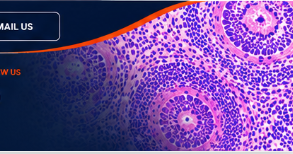
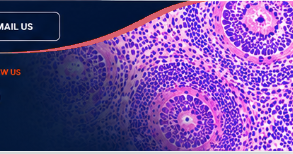
Final website approval for production

Changed region(s): [[0.0922, 0.0, 0.7065, 0.3377], [0.0307, 0.3377, 0.0922, 0.3636]]

diff --git a/src/components/home/ServicesOverview.tsx b/src/components/home/ServicesOverview.tsx
@@ -74,7 +74,7 @@ const processSteps = [
 
 function ServiceItem({ label, icon }: { label: string; icon: BrochureIconName }) {
   return (
-    <li className="flex items-start gap-3 text-[9.8px] font-extrabold leading-[1.3] text-brand-navy">
+    <li className="flex items-start gap-3 text-[9.8px] font-extrabold leading-[1.3] text-brand-navy xl:text-[12px]">
       <span className="relative mt-0.5 grid h-[14px] w-[14px] shrink-0 place-items-center">
         <BrochureIcon name={icon} size={20} className="absolute max-w-none" />
       </span>
@@ -85,7 +85,7 @@ function ServiceItem({ label, icon }: { label: string; icon: BrochureIconName })
 
 function OutsourceItem({ label }: { label: string }) {
   return (
-    <li className="flex items-start gap-2 text-[8.4px] font-extrabold leading-[1.22] text-brand-navy">
+    <li className="flex items-start gap-2 text-[8.4px] font-extrabold leading-[1.22] text-brand-navy xl:text-[10.5px]">
       <span className="mt-px grid h-[12px] w-[12px] shrink-0 place-items-center">
         <BrochureIcon name="check-solid" size={12} />
       </span>
@@ -100,20 +100,20 @@ export default function ServicesOverview() {
       <div className="absolute right-[6%] top-[36px] hidden h-[150px] w-[96px] rounded-l-full border-[22px] border-brand-orange/8 border-r-0 min-[900px]:block" aria-hidden="true" />
       <div className="absolute right-[11%] top-[268px] hidden h-[150px] w-[96px] rounded-l-full border-[22px] border-brand-navy/5 border-r-0 min-[900px]:block" aria-hidden="true" />
 
-      <div className="relative z-10 mx-auto w-full max-w-[995px] px-5 min-[900px]:px-[62px]">
-        <div className="grid gap-x-[38px] gap-y-8 min-[900px]:grid-cols-[280px_minmax(0,1fr)]">
+      <div className="relative z-10 mx-auto w-full max-w-7xl px-5 sm:px-6 lg:px-8">
+        <div className="grid gap-x-[38px] gap-y-8 min-[900px]:grid-cols-[280px_minmax(0,1fr)] xl:grid-cols-[350px_minmax(0,1fr)] xl:gap-x-16">
           <aside>
             <div className="grid h-[38px] w-[38px] place-items-center rounded-full bg-brand-navy text-white shadow-sm">
               <BrochureIcon name="brochure-microscope" size={38} />
             </div>
             <p className="eyebrow mt-4 text-[11px] tracking-[0.12em]">Our Services</p>
-            <h2 className="mt-2 max-w-[270px] text-[22px] font-black leading-[1.04] text-brand-navy">
+            <h2 className="mt-2 max-w-[270px] text-[22px] font-black leading-[1.04] text-brand-navy xl:max-w-[340px] xl:text-[32px]">
               Flexible Mohs histology solutions tailored to your practice
             </h2>
             <div className="mt-4 h-1 w-[47px] bg-brand-orange" />
 
             <div className="mt-4">
-              <h3 className="text-[11px] font-black uppercase tracking-[0.04em] text-brand-navy">Histology Services</h3>
+              <h3 className="text-[11px] font-black uppercase tracking-[0.04em] text-brand-navy xl:text-[13px]">Histology Services</h3>
               <ul className="mt-3 grid gap-1.5">
                 {histologyServices.map((service) => (
                   <ServiceItem key={service.label} label={service.label} icon={service.icon} />
@@ -122,7 +122,7 @@ export default function ServicesOverview() {
             </div>
 
             <div className="mt-3 border-t border-brand-orange pt-3">
-              <h3 className="text-[11px] font-black uppercase tracking-[0.04em] text-brand-navy">Laboratory Support Services</h3>
+              <h3 className="text-[11px] font-black uppercase tracking-[0.04em] text-brand-navy xl:text-[13px]">Laboratory Support Services</h3>
               <ul className="mt-3 grid gap-1.5">
                 {laboratoryServices.map((service) => (
                   <ServiceItem key={service.label} label={service.label} icon={service.icon} />
@@ -131,7 +131,7 @@ export default function ServicesOverview() {
             </div>
 
             <div className="mt-5 rounded border border-brand-orange bg-white/70 p-3.5 shadow-[0_10px_25px_rgba(11,35,69,0.04)]">
-              <h3 className="text-[15px] font-black uppercase leading-[1.05] text-brand-navy">Why Outsource to Mohs Mobile Pros?</h3>
+              <h3 className="text-[15px] font-black uppercase leading-[1.05] text-brand-navy xl:text-[19px]">Why Outsource to Mohs Mobile Pros?</h3>
               <ul className="mt-4 grid grid-cols-2 gap-x-4 gap-y-2.5">
                 {outsourceReasons.map((reason) => (
                   <OutsourceItem key={reason} label={reason} />
@@ -141,31 +141,31 @@ export default function ServicesOverview() {
           </aside>
 
           <div>
-            <div className="relative h-[470px]">
-              <div className="absolute left-[8px] top-[22px] h-[295px] w-[390px] overflow-hidden rounded border-[7px] border-white bg-white shadow-[0_15px_40px_rgba(11,35,69,0.12)]">
+            <div className="relative h-[470px] xl:h-[560px]">
+              <div className="absolute left-[8px] top-[22px] h-[295px] w-[390px] overflow-hidden rounded border-[7px] border-white bg-white shadow-[0_15px_40px_rgba(11,35,69,0.12)] xl:h-[360px] xl:w-[480px]">
                 <Image src="/images/hero/leica-cm1860-technician.jpg" alt="Asian female technician working at a Leica cryostat" fill sizes="390px" className="object-cover object-[44%_50%]" />
               </div>
-              <div className="absolute right-[8px] top-[170px] h-[145px] w-[218px] rotate-[2deg] overflow-hidden rounded border-[7px] border-white bg-white shadow-[0_13px_32px_rgba(11,35,69,0.13)]">
+              <div className="absolute right-[8px] top-[170px] h-[145px] w-[218px] rotate-[2deg] overflow-hidden rounded border-[7px] border-white bg-white shadow-[0_13px_32px_rgba(11,35,69,0.13)] xl:top-[205px] xl:h-[180px] xl:w-[270px]">
                 <Image src="/images/services-slide-handling.png" alt="Gloved hand handling a histology slide" fill sizes="218px" className="object-cover object-[62%_50%]" />
               </div>
-              <div className="absolute left-[98px] top-[296px] h-[167px] w-[255px] -rotate-[1deg] overflow-hidden rounded border-[7px] border-white bg-white shadow-[0_13px_32px_rgba(11,35,69,0.12)]">
+              <div className="absolute left-[98px] top-[296px] h-[167px] w-[255px] -rotate-[1deg] overflow-hidden rounded border-[7px] border-white bg-white shadow-[0_13px_32px_rgba(11,35,69,0.12)] xl:left-[120px] xl:top-[355px] xl:h-[195px] xl:w-[315px]">
                 <Image src="/images/services-he-stain.png" alt="H&E stained tissue image" fill sizes="255px" className="object-cover object-center" />
               </div>
             </div>
 
             <div className="mt-1">
               <p className="eyebrow text-[11px] tracking-[0.08em]">Why Practices Choose Mohs Mobile Pros</p>
-              <h2 className="mt-2 max-w-[560px] text-[22px] font-black leading-[1.04] text-brand-navy sm:text-[26px]">
+              <h2 className="mt-2 max-w-[560px] text-[22px] font-black leading-[1.04] text-brand-navy sm:text-[26px] xl:max-w-3xl xl:text-[32px]">
                 Dependable support for modern Mohs practices
               </h2>
               <div className="mt-6 grid items-stretch gap-4 sm:grid-cols-2 min-[900px]:grid-cols-4">
                 {choiceCards.map((card) => (
-                  <article key={card.title} className="h-full rounded border border-slate-100 bg-white p-4 shadow-[0_14px_32px_rgba(11,35,69,0.06)]">
+                  <article key={card.title} className="h-full rounded border border-slate-100 bg-white p-4 shadow-[0_14px_32px_rgba(11,35,69,0.06)] xl:p-5">
                     <span className="relative grid h-[36px] w-[36px] place-items-center">
                       <BrochureIcon name={card.icon} size="md" className="absolute max-w-none" />
                     </span>
-                    <h3 className="mt-4 text-[11px] font-black leading-tight text-brand-navy">{card.title}</h3>
-                    <p className="mt-3 text-[7.8px] font-medium leading-[1.35] text-brand-navy/80">{card.text}</p>
+                    <h3 className="mt-4 text-[11px] font-black leading-tight text-brand-navy xl:text-[13px]">{card.title}</h3>
+                    <p className="mt-3 text-[7.8px] font-medium leading-[1.35] text-brand-navy/80 xl:text-[10px] xl:leading-[1.45]">{card.text}</p>
                   </article>
                 ))}
               </div>
@@ -174,19 +174,19 @@ export default function ServicesOverview() {
 
           <div className="min-[900px]:col-span-2">
             <p className="eyebrow mt-1 text-[11px] tracking-[0.08em]">How We Work</p>
-            <h2 className="mt-1 text-[24px] font-black leading-tight text-brand-navy sm:text-[27px]">
+            <h2 className="mt-1 text-[24px] font-black leading-tight text-brand-navy sm:text-[27px] xl:text-[32px]">
               A clear process from request to clinic-day support
             </h2>
             <div className="mt-4 grid gap-6 min-[900px]:grid-cols-4 min-[900px]:gap-[42px]">
               {processSteps.map((step, index) => (
-                <article key={step.title} className="relative min-h-[92px] bg-white px-5 py-4 shadow-[0_11px_24px_rgba(11,35,69,0.05)]">
+                <article key={step.title} className="relative min-h-[92px] bg-white px-5 py-4 shadow-[0_11px_24px_rgba(11,35,69,0.05)] xl:min-h-[118px] xl:px-6 xl:py-5">
                   <span className="absolute -left-2 top-3 grid h-[30px] w-[30px] place-items-center rounded-full bg-brand-navy text-[15px] font-black text-white">{index + 1}</span>
                   {index < processSteps.length - 1 && (
                     <span className="absolute -right-[32px] top-[33px] hidden text-[38px] font-black leading-none text-brand-orange min-[900px]:block" aria-hidden="true">&rarr;</span>
                   )}
                   <div className="pl-5">
-                    <h3 className="text-[12px] font-black leading-tight text-brand-navy">{step.title}</h3>
-                    <p className="mt-2 text-[9px] font-medium leading-[1.7] text-brand-navy/80">{step.text}</p>
+                    <h3 className="text-[12px] font-black leading-tight text-brand-navy xl:text-sm">{step.title}</h3>
+                    <p className="mt-2 text-[9px] font-medium leading-[1.7] text-brand-navy/80 xl:text-[11px]">{step.text}</p>
                   </div>
                 </article>
               ))}

diff --git a/src/components/home/HeroSection.tsx b/src/components/home/HeroSection.tsx
@@ -3,33 +3,33 @@ import Link from 'next/link'
 
 export default function HeroSection() {
   return (
-    <section className="relative isolate h-[363px] overflow-hidden bg-white">
-      <div className="absolute right-0 top-0 hidden h-[338px] w-[56%] min-[900px]:block">
-        <Image src="/images/homepage-hero-eye-contact.png" alt="Red-haired histotechnician receiving a specimen from a dermatology surgeon in a Mohs laboratory" fill priority sizes="56vw" className="object-cover object-center" />
-        <div className="absolute inset-y-0 left-0 w-[34%] bg-gradient-to-r from-white via-white/88 to-white/0" />
+    <section className="relative isolate overflow-hidden bg-white min-[900px]:h-[363px] xl:h-[480px]">
+      <div className="absolute right-0 top-0 hidden h-[338px] w-[56%] min-[900px]:block xl:h-[455px] xl:w-[58%]">
+        <Image src="/images/homepage-hero-eye-contact.png" alt="Red-haired histotechnician receiving a specimen from a dermatology surgeon in a Mohs laboratory" fill priority sizes="(min-width: 1280px) 58vw, 56vw" className="object-cover object-center" />
+        <div className="absolute inset-y-0 left-0 w-[46%] bg-[linear-gradient(90deg,#ffffff_0%,#ffffff_5%,rgba(255,255,255,0.96)_14%,rgba(255,255,255,0.84)_28%,rgba(255,255,255,0.65)_44%,rgba(255,255,255,0.42)_60%,rgba(255,255,255,0.22)_76%,rgba(255,255,255,0.08)_90%,rgba(255,255,255,0)_100%)]" />
       </div>
       <div className="absolute bottom-0 left-0 h-[25px] w-full bg-brand-orange" />
       <svg className="absolute bottom-[16px] left-0 h-[42px] w-full text-brand-navy" viewBox="0 0 1440 100" preserveAspectRatio="none" aria-hidden="true">
         <path fill="currentColor" d="M0 78C242 47 454 42 694 49C930 56 1160 80 1440 36V100H0V78Z" />
       </svg>
 
-      <div className="relative z-10 mx-auto flex h-full w-full max-w-[995px] px-5 pt-[42px] min-[900px]:px-[62px]">
-        <div className="max-w-[448px] premium-reveal">
+      <div className="relative z-10 mx-auto flex w-full max-w-7xl flex-col px-5 pb-[72px] pt-[42px] sm:px-6 min-[900px]:h-full min-[900px]:flex-row min-[900px]:pb-0 lg:px-8 xl:pt-[70px]">
+        <div className="max-w-[448px] premium-reveal xl:max-w-[560px]">
           <p className="eyebrow">Mobile Mohs Histology Services</p>
-          <h1 className="mt-3 max-w-[440px] text-[34px] font-black leading-[1.04] text-brand-navy sm:text-[36px]">
+          <h1 className="mt-3 max-w-[440px] text-[34px] font-black leading-[1.04] text-brand-navy sm:text-[36px] xl:max-w-[560px] xl:text-[52px]">
             Professional Mobile Mohs Histology Services
           </h1>
           <div className="mt-5 h-1 w-[54px] rounded-full bg-brand-orange" />
-          <p className="mt-6 max-w-[410px] text-[13px] font-medium leading-7 text-brand-navy">
+          <p className="mt-6 max-w-[410px] text-[13px] font-medium leading-7 text-brand-navy xl:max-w-[520px] xl:text-[17px] xl:leading-8">
             Experienced on-site Mohs histology support that integrates seamlessly into your laboratory workflow while delivering precise, prompt, and professional service.
           </p>
           <div className="mt-5 flex flex-col gap-4 sm:flex-row">
-            <Link href="/services" prefetch={false} className="btn-secondary min-h-[36px] rounded bg-brand-navy px-6 py-2 text-[11px] text-white hover:border-brand-navy hover:bg-brand-navy hover:text-brand-orange">Our Services</Link>
-            <Link href="/request-service" prefetch={false} className="btn-primary min-h-[36px] rounded px-6 py-2 text-[11px]">Request Service</Link>
+            <Link href="/services" prefetch={false} className="btn-secondary min-h-[36px] rounded bg-brand-navy px-6 py-2 text-[11px] text-white hover:border-brand-navy hover:bg-brand-navy hover:text-brand-orange xl:min-h-12 xl:px-7 xl:text-sm">Our Services</Link>
+            <Link href="/request-service" prefetch={false} className="btn-primary min-h-[36px] rounded px-6 py-2 text-[11px] xl:min-h-12 xl:px-7 xl:text-sm">Request Service</Link>
           </div>
         </div>
 
-        <div className="relative min-h-[320px] min-[900px]:hidden">
+        <div className="relative mt-8 min-h-[240px] w-full sm:min-h-[320px] min-[900px]:hidden">
           <div className="absolute inset-0 overflow-hidden rounded-lg border-8 border-white bg-brand-navy shadow-2xl shadow-slate-900/20">
             <Image src="/images/homepage-hero-eye-contact.png" alt="Red-haired histotechnician receiving a specimen from a dermatology surgeon in a Mohs laboratory" fill sizes="100vw" className="object-cover" />
           </div>

diff --git a/src/components/home/FooterSection.tsx b/src/components/home/FooterSection.tsx
@@ -24,23 +24,23 @@ export default function FooterSection({ home = false }: FooterSectionProps) {
 
   return (
     <div className="relative z-10">
-      <div className={home ? 'mx-auto grid w-full max-w-[995px] gap-6 px-5 pb-5 pt-4 md:grid-cols-[1.25fr_.85fr_1fr_.7fr] md:items-start min-[900px]:px-[62px]' : 'container grid gap-8 pb-7 pt-5 md:grid-cols-[1.2fr_1fr_1.1fr_.7fr] md:items-start'}>
+      <div className={home ? 'mx-auto grid w-full max-w-7xl gap-6 px-5 pb-5 pt-4 sm:px-6 md:grid-cols-[1.25fr_.85fr_1fr_.7fr] md:items-start lg:px-8 xl:gap-10 xl:pb-7 xl:pt-6' : 'container grid gap-8 pb-7 pt-5 md:grid-cols-[1.2fr_1fr_1.1fr_.7fr] md:items-start'}>
         <div>
           <Link href="/" prefetch={false} className="inline-flex items-center gap-3">
             <span className={home ? 'relative h-[38px] w-[38px] shrink-0 overflow-hidden rounded-full bg-white' : 'relative h-14 w-14 shrink-0 overflow-hidden rounded-full bg-white'}>
               <Image src="/images/approved-logo.png" alt="" fill sizes={home ? '38px' : '56px'} className="object-contain" />
             </span>
             <span>
-              <span className={home ? 'block text-[18px] font-extrabold leading-tight text-white' : 'block text-xl font-extrabold leading-tight text-white'}>Mohs Mobile <span className="text-brand-orange">PROS</span></span>
-              <span className={home ? 'mt-1 block max-w-[150px] text-[10px] font-semibold leading-snug text-white/78' : 'mt-1 block max-w-[190px] text-xs font-semibold leading-snug text-white/78'}>Professional On-Site Mohs Histology Services</span>
+              <span className={home ? 'block text-[18px] font-extrabold leading-tight text-white xl:text-[22px]' : 'block text-xl font-extrabold leading-tight text-white'}>Mohs Mobile <span className="text-brand-orange">PROS</span></span>
+              <span className={home ? 'mt-1 block max-w-[150px] text-[10px] font-semibold leading-snug text-white/78 xl:max-w-[190px] xl:text-xs' : 'mt-1 block max-w-[190px] text-xs font-semibold leading-snug text-white/78'}>Professional On-Site Mohs Histology Services</span>
             </span>
           </Link>
-          <p className={home ? 'mt-4 text-[10px] text-white/72' : 'mt-5 text-xs text-white/72'}>&copy; 2026 Mohs Mobile Pros. All rights reserved.</p>
+          <p className={home ? 'mt-4 text-[10px] text-white/72 xl:text-xs' : 'mt-5 text-xs text-white/72'}>&copy; 2026 Mohs Mobile Pros. All rights reserved.</p>
         </div>
 
         <div className={home ? 'md:border-l md:border-white/25 md:pl-6' : 'md:border-l md:border-white/25 md:pl-8'}>
-          <h2 className={home ? 'text-[11px] font-bold uppercase tracking-[0.12em] text-brand-orange' : 'text-xs font-bold uppercase tracking-[0.18em] text-brand-orange'}>Quick Links</h2>
-          <ul className={home ? 'mt-2 grid grid-cols-2 gap-x-5 gap-y-1 text-[10px] font-semibold text-white/82' : 'mt-3 grid grid-cols-2 gap-x-7 gap-y-2 text-xs font-semibold text-white/82'}>
+          <h2 className={home ? 'text-[11px] font-bold uppercase tracking-[0.12em] text-brand-orange xl:text-xs' : 'text-xs font-bold uppercase tracking-[0.18em] text-brand-orange'}>Quick Links</h2>
+          <ul className={home ? 'mt-2 grid grid-cols-2 gap-x-5 gap-y-1 text-[10px] font-semibold text-white/82 xl:text-xs' : 'mt-3 grid grid-cols-2 gap-x-7 gap-y-2 text-xs font-semibold text-white/82'}>
             {quickLinks.map((link) => (
               <li key={link.href}><Link href={link.href} prefetch={false} className={footerLinkClass}>{link.label}</Link></li>
             ))}
@@ -48,8 +48,8 @@ export default function FooterSection({ home = false }: FooterSectionProps) {
         </div>
 
         <div className={home ? 'md:border-l md:border-white/25 md:pl-6' : 'md:border-l md:border-white/25 md:pl-8'}>
-          <h2 className={home ? 'text-[11px] font-bold uppercase tracking-[0.12em] text-brand-orange' : 'text-xs font-bold uppercase tracking-[0.18em] text-brand-orange'}>Contact</h2>
-          <div className={home ? 'mt-2 space-y-1 text-[10px] font-semibold text-white/82' : 'mt-3 space-y-2 text-xs font-semibold text-white/82'}>
+          <h2 className={home ? 'text-[11px] font-bold uppercase tracking-[0.12em] text-brand-orange xl:text-xs' : 'text-xs font-bold uppercase tracking-[0.18em] text-brand-orange'}>Contact</h2>
+          <div className={home ? 'mt-2 space-y-1 text-[10px] font-semibold text-white/82 xl:text-xs' : 'mt-3 space-y-2 text-xs font-semibold text-white/82'}>
             <p><a href={`mailto:${business.email}`} className={footerLinkClass}>{business.email}</a></p>
             <p><a href={`mailto:${business.schedulingEmail}`} className={footerLinkClass}>{business.schedulingEmail}</a></p>
             <p><a href={business.phoneHref} className={footerLinkClass}>{business.phone}</a></p>
@@ -58,7 +58,7 @@ export default function FooterSection({ home = false }: FooterSectionProps) {
         </div>
 
         <div className={home ? 'md:border-l md:border-white/25 md:pl-6' : 'md:border-l md:border-white/25 md:pl-8'}>
-          <h2 className={home ? 'text-[11px] font-bold uppercase tracking-[0.12em] text-brand-orange' : 'text-xs font-bold uppercase tracking-[0.18em] text-brand-orange'}>Follow Us</h2>
+          <h2 className={home ? 'text-[11px] font-bold uppercase tracking-[0.12em] text-brand-orange xl:text-xs' : 'text-xs font-bold uppercase tracking-[0.18em] text-brand-orange'}>Follow Us</h2>
           <span aria-hidden="true" className={home ? 'mt-3 inline-flex h-8 w-8 items-center justify-center rounded-full bg-white/70 text-sm font-extrabold text-brand-navy' : 'mt-4 inline-flex h-10 w-10 items-center justify-center rounded-full bg-white/70 text-base font-extrabold text-brand-navy'}>
             in
           </span>

diff --git a/src/app/services/page.tsx b/src/app/services/page.tsx
@@ -150,7 +150,7 @@ export default function ServicesPage() {
             {choiceCards.map((card) => (
               <article key={card.title} className="premium-card group flex min-h-[300px] flex-col">
                 <span className="grid h-14 w-14 shrink-0 place-items-center rounded-full border-2 border-brand-orange bg-white text-brand-navy shadow-[0_12px_28px_rgba(11,35,69,0.12)] transition duration-300 ease-out group-hover:scale-[1.03]">
-                  <BrochureIcon name={card.icon} size="lg" />
+                  <BrochureIcon name={card.icon} size="lg" className={card.icon === 'quality-consistency' ? 'translate-x-[4px]' : ''} />
                 </span>
                 <h3 className="mt-6 text-xl font-black leading-tight text-brand-navy">{card.title}</h3>
                 <p className="mt-4 leading-7 text-slate-600">{card.text}</p>
@@ -185,21 +185,6 @@ export default function ServicesPage() {
         </div>
       </BrochureBand>
 
-      <BrochureBand tone="navy">
-        <div className="grid gap-8 lg:grid-cols-[1fr_auto] lg:items-center">
-          <div>
-            <p className="eyebrow text-brand-orange">Schedule coverage</p>
-            <h2 className="mt-3 text-4xl font-black leading-tight text-white sm:text-5xl">Ready to Schedule Mohs Histology Coverage?</h2>
-            <p className="mt-5 max-w-3xl text-lg leading-8 text-white/82">Whether you need complete laboratory setup, surgery-day coverage, workflow integration, equipment support, or experienced Mohs technicians, Mohs Mobile Pros is ready to support your practice.</p>
-          </div>
-          <div className="flex flex-col gap-3 sm:flex-row lg:flex-col">
-            <Link href="/request-service" className="btn-primary">Request Service</Link>
-            <Link href="/contact" className="inline-flex min-h-12 items-center justify-center rounded-md border border-white/25 px-6 py-3 text-sm font-bold uppercase tracking-[0.08em] text-white transition duration-300 ease-out hover:-translate-y-[3px] hover:bg-white hover:text-brand-navy">
-              Contact Us
-            </Link>
-          </div>
-        </div>
-      </BrochureBand>
     </div>
   )
 }

diff --git a/src/components/NavBar.tsx b/src/components/NavBar.tsx
@@ -27,19 +27,19 @@ export default function NavBar() {
 
   return (
     <header className={isHome ? 'relative z-40 border-b border-slate-100 bg-white shadow-[0_8px_24px_rgba(11,35,69,0.05)]' : 'sticky top-0 z-40 border-b border-slate-200/80 bg-white shadow-[0_10px_30px_rgba(11,35,69,0.06)]'}>
-      <div className={isHome ? 'relative mx-auto w-full max-w-[995px] px-5 min-[900px]:px-[62px]' : 'container relative'}>
+      <div className={isHome ? 'relative mx-auto w-full max-w-7xl px-5 lg:px-8' : 'relative mx-auto w-full max-w-7xl px-5 sm:px-6 lg:px-8'}>
         <TopBar compact={isHome} />
-        <nav className={isHome ? 'flex min-h-[88px] items-center justify-between gap-2 py-1 sm:gap-4 min-[900px]:min-h-[87px] min-[900px]:items-end min-[900px]:gap-5 min-[900px]:pb-[14px]' : 'flex min-h-[112px] items-center justify-between gap-2 py-1 sm:gap-4 lg:min-h-[124px] lg:items-end lg:gap-5 lg:pb-3'}>
+        <nav className={isHome ? 'flex min-h-[88px] flex-nowrap items-center justify-between gap-2 py-1 sm:gap-4 min-[900px]:min-h-[87px] min-[900px]:items-end min-[900px]:gap-5 min-[900px]:pb-[14px]' : 'flex min-h-[112px] flex-nowrap items-center justify-between gap-2 py-1 sm:gap-4 lg:min-h-[87px] lg:items-end lg:gap-5 lg:pb-[14px]'}>
           <Logo compact={isHome} />
 
-          <div className={isHome ? 'hidden min-w-0 flex-1 items-center justify-end gap-[13px] pb-[1px] min-[900px]:flex' : 'hidden min-w-0 flex-1 items-center justify-end gap-2 pb-2 lg:flex xl:gap-3'}>
+          <div className={isHome ? 'hidden min-w-0 flex-1 flex-nowrap items-center justify-end gap-[13px] pb-[1px] min-[900px]:flex min-[900px]:translate-x-2' : 'hidden min-w-0 flex-1 flex-nowrap items-center justify-end gap-[13px] pb-[1px] lg:flex lg:translate-x-2'}>
             {headerLinks.map((link) => (
-              <Link key={link.href} href={link.href} prefetch={false} aria-current={isActive(link.href) ? 'page' : undefined} className={isHome ? 'group relative whitespace-nowrap py-2 text-[11px] font-extrabold text-brand-navy transition duration-200 hover:text-brand-orange' : 'group relative py-2 text-xs font-extrabold text-brand-navy transition duration-200 hover:text-brand-orange xl:text-sm'}>
+              <Link key={link.href} href={link.href} prefetch={false} aria-current={isActive(link.href) ? 'page' : undefined} className="group relative whitespace-nowrap py-2 text-[11px] font-extrabold text-brand-navy transition duration-200 hover:text-brand-orange">
                 {link.label}
                 <span className="absolute inset-x-0 -bottom-0.5 h-0.5 origin-left scale-x-0 rounded-full bg-brand-orange transition-transform duration-300 ease-out group-hover:scale-x-100" aria-hidden="true" />
               </Link>
             ))}
-            <Link href="/request-service" prefetch={false} aria-current={pathname === '/request-service' ? 'page' : undefined} className={isHome ? 'btn-primary min-h-[36px] min-w-[103px] whitespace-nowrap rounded px-3 py-2 text-[10px]' : 'btn-primary min-h-10 px-4 py-2 text-xs xl:px-5'}>Request Service</Link>
+            <Link href="/request-service" prefetch={false} aria-current={pathname === '/request-service' ? 'page' : undefined} className="btn-primary min-h-[36px] min-w-[103px] whitespace-nowrap rounded px-3 py-2 text-[10px]">Request Service</Link>
           </div>
 
           <div className={isHome ? 'min-[900px]:hidden' : 'lg:hidden'}>

diff --git a/src/components/Logo.tsx b/src/components/Logo.tsx
@@ -9,14 +9,14 @@ type LogoProps = {
 export default function Logo({ light = false, compact = false }: LogoProps) {
   return (
     <Link href="/" prefetch={false} className="inline-flex min-w-0 shrink items-center gap-2 sm:shrink-0 sm:gap-4">
-      <span className={light ? 'relative block h-[58px] w-[58px] shrink-0 overflow-hidden rounded-full bg-white' : compact ? 'relative block h-[50px] w-[50px] shrink-0 overflow-hidden rounded-full bg-white' : 'relative block h-[50px] w-[50px] shrink-0 overflow-hidden rounded-full bg-white sm:h-[86px] sm:w-[86px] lg:h-[96px] lg:w-[96px]'}>
+      <span className={light ? 'relative block h-[58px] w-[58px] shrink-0 overflow-hidden rounded-full bg-white' : compact ? 'relative block h-[50px] w-[50px] shrink-0 overflow-hidden rounded-full bg-white' : 'relative block h-[50px] w-[50px] shrink-0 overflow-hidden rounded-full bg-white sm:h-[86px] sm:w-[86px] lg:h-[50px] lg:w-[50px]'}>
         <Image src="/images/approved-logo.png?v=dusty-coral" alt="" fill priority sizes={light ? '58px' : compact ? '50px' : '(max-width: 640px) 50px, (max-width: 1024px) 86px, 96px'} className="object-contain" />
       </span>
       <span className="block min-w-0">
-        <span className={light ? 'block text-xl font-extrabold leading-tight text-white' : compact ? 'block text-[25px] font-extrabold leading-none text-brand-navy' : 'block whitespace-nowrap text-[18px] font-extrabold leading-tight text-brand-navy sm:text-3xl lg:text-4xl'}>
+        <span className={light ? 'block text-xl font-extrabold leading-tight text-white' : compact ? 'block text-[25px] font-extrabold leading-none text-brand-navy' : 'block whitespace-nowrap text-[18px] font-extrabold leading-tight text-brand-navy sm:text-3xl lg:text-[25px] lg:leading-none'}>
           Mohs Mobile <span className="text-brand-orange">PROS</span>
         </span>
-        <span className={light ? 'mt-1 block text-xs font-semibold leading-snug text-white/75' : compact ? 'mt-2 block text-[11px] font-semibold leading-none text-slate-600' : 'mt-1 block max-w-[150px] text-[10px] font-semibold leading-snug text-slate-600 sm:max-w-none sm:text-sm lg:text-base'}>
+        <span className={light ? 'mt-1 block text-xs font-semibold leading-snug text-white/75' : compact ? 'mt-2 block text-[11px] font-semibold leading-none text-slate-600' : 'mt-1 block max-w-[150px] text-[10px] font-semibold leading-snug text-slate-600 sm:max-w-none sm:text-sm lg:mt-2 lg:text-[11px] lg:leading-none'}>
           Professional On-Site Mohs Histology Services
         </span>
       </span>

diff --git a/src/components/home/CTASection.tsx b/src/components/home/CTASection.tsx
@@ -10,11 +10,11 @@ export default function CTASection({ home = false }: CTASectionProps) {
   if (home) {
     return (
       <section className="relative z-10 border-b-2 border-brand-orange bg-brand-navy py-[14px] text-white">
-        <div className="mx-auto grid w-full max-w-[995px] gap-5 px-5 min-[900px]:grid-cols-[1fr_155px] min-[900px]:items-center min-[900px]:px-[62px]">
+        <div className="mx-auto grid w-full max-w-7xl gap-5 px-5 sm:px-6 lg:px-8 min-[900px]:grid-cols-[1fr_155px] min-[900px]:items-center xl:grid-cols-[1fr_190px]">
           <div>
             <p className="text-[11px] font-black uppercase tracking-[0.08em] text-brand-orange">Schedule Coverage</p>
-            <h2 className="mt-1 text-[24px] font-black leading-tight">Ready to Schedule Mohs Histology Coverage?</h2>
-            <p className="mt-1 max-w-[590px] text-[12px] font-medium leading-5 text-white/88">
+            <h2 className="mt-1 text-[24px] font-black leading-tight xl:text-[32px]">Ready to Schedule Mohs Histology Coverage?</h2>
+            <p className="mt-1 max-w-[590px] text-[12px] font-medium leading-5 text-white/88 xl:max-w-3xl xl:text-base xl:leading-7">
               Whether you need complete laboratory setup, surgery-day coverage, workflow integration, equipment support, or experienced Mohs technicians, Mohs Mobile Pros is ready to support your practice.
             </p>
           </div>

diff --git a/src/components/TopBar.tsx b/src/components/TopBar.tsx
@@ -7,8 +7,8 @@ type TopBarProps = {
 
 export default function TopBar({ compact = false }: TopBarProps) {
   return (
-    <div className={compact ? 'absolute right-[48px] top-0 hidden justify-end min-[900px]:flex' : 'absolute right-5 top-0 hidden justify-end lg:flex xl:right-8'}>
-      <div className={compact ? 'rounded-bl-[1.45rem] bg-brand-navy px-6 py-2 text-[12px] font-bold text-white shadow-sm' : 'rounded-bl-[2rem] bg-brand-navy px-7 py-2.5 text-sm font-semibold text-white shadow-sm'}>
+    <div className={compact ? 'absolute right-[48px] top-0 hidden justify-end min-[900px]:flex' : 'absolute right-[48px] top-0 hidden justify-end lg:flex'}>
+      <div className="min-h-[36px] rounded-bl-[1.45rem] bg-brand-navy px-6 py-2 text-[12px] font-bold text-white shadow-sm">
         <a href={`mailto:${business.email}`} className="inline-flex items-center gap-1.5 hover:text-brand-orange">
           {compact && (
             <BrochureIcon name="email" size="xs" />

diff --git a/src/app/careers/page.tsx b/src/app/careers/page.tsx
@@ -68,7 +68,7 @@ export default function CareersPage() {
           <div className="mt-10 grid gap-5 md:grid-cols-2 xl:grid-cols-4">
             {careerOpportunities.map((opportunity) => (
               <article key={opportunity.title} className="premium-card group flex min-h-[330px] flex-col">
-                <span className="grid h-16 w-16 shrink-0 place-items-center rounded-full border-2 border-brand-orange bg-white shadow-[0_12px_28px_rgba(11,35,69,0.12)]"><BrochureIcon name={opportunity.icon} size="lg" /></span>
+                <span className={`grid h-16 w-16 shrink-0 place-items-center rounded-full border-2 border-brand-orange bg-white shadow-[0_12px_28px_rgba(11,35,69,0.12)]${opportunity.title === 'Entry-Level Mohs Technician Trainee' ? ' self-center' : ''}`}><BrochureIcon name={opportunity.icon} size="lg" /></span>
                 <h3 className="mt-6 text-xl font-black leading-tight text-brand-navy">{opportunity.title}</h3>
                 <p className="mt-4 flex-1 leading-7 text-slate-600">{opportunity.text}</p>
                 <Link href="/careers#careers-inquiry-form" className="btn-primary mt-7 self-start">{opportunity.button}</Link>

diff --git a/src/app/service-areas/page.tsx b/src/app/service-areas/page.tsx
@@ -153,7 +153,7 @@ export default function ServiceAreasPage() {
           <div className="mt-10 grid gap-5 md:grid-cols-2 xl:grid-cols-5">
             {regionalReasons.map((reason) => (
               <article key={reason.title} className="premium-card group flex min-h-[230px] flex-col">
-                <span className="grid h-14 w-14 shrink-0 place-items-center rounded-full border-2 border-brand-orange bg-white text-brand-navy shadow-[0_12px_28px_rgba(11,35,69,0.12)] transition duration-300 ease-out group-hover:scale-[1.03]">
+                <span className={`grid h-14 w-14 shrink-0 place-items-center rounded-full border-2 border-brand-orange bg-white text-brand-navy shadow-[0_12px_28px_rgba(11,35,69,0.12)] transition duration-300 ease-out group-hover:scale-[1.03]${reason.icon === 'quality-consistency' ? ' self-center' : ''}`}>
                   <BrochureIcon name={reason.icon} size="lg" />
                 </span>
                 <h3 className="mt-6 text-lg font-black leading-tight text-brand-navy">{reason.title}</h3>